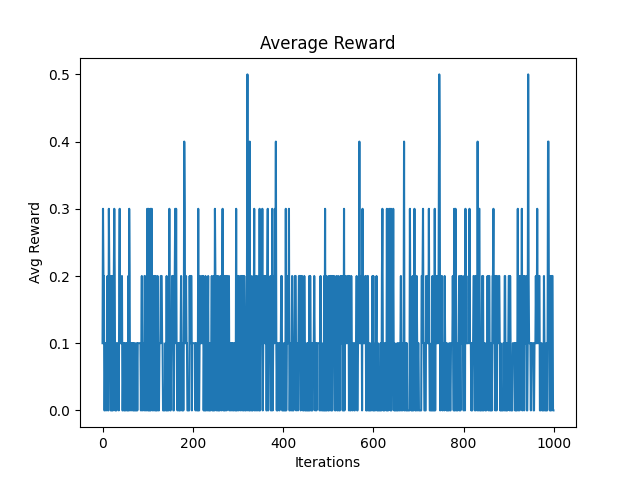
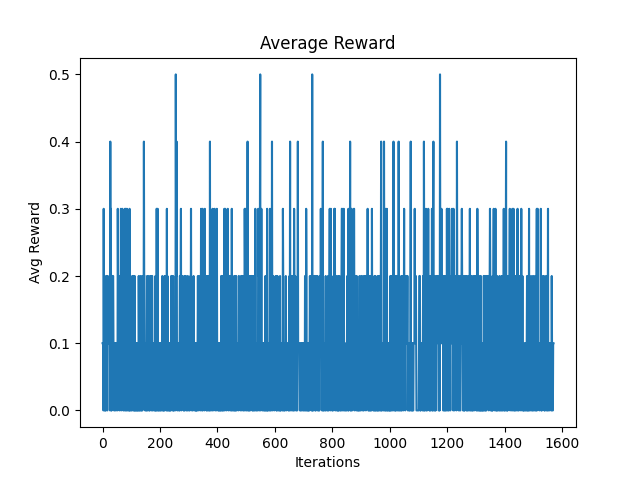
done

diff --git a/markov_decision_process/frozenlake_vi.py b/markov_decision_process/frozenlake_vi.py
@@ -13,7 +13,7 @@ def discount_experiment(env,dir):
     for gamma_val in gamma_vals:
         metrics[gamma_val] = {'reward':[],'iteration':[],'time':[],'avg_reward':[], 'num_wins':[]}
         start = time.time()
-        opt_V, opt_Policy, converge_iteration, value_funcs = value_iteration(env, max_iteration = 1000, discount_factor=gamma_val)
+        opt_V, opt_Policy, converge_iteration, value_funcs = value_iteration(env, max_iteration = 10000, discount_factor=gamma_val)
         end = time.time()
         generate_plots(value_funcs,env,gamma_val,f'gamma_{gamma_val}',dir=dir)
         # get the metrics for this policy
@@ -32,7 +32,7 @@ def epsilon_experiment(env,dir):
     for epsilon_val in epsilons:
         metrics[epsilon_val] = {'reward':[],'iteration':[],'time':[],'avg_reward':[], 'num_wins':[]}
         start = time.time()
-        opt_V, opt_Policy, converge_iteration, value_funcs = value_iteration(env, max_iteration = 1000, epsilon_change=epsilon_val)
+        opt_V, opt_Policy, converge_iteration, value_funcs = value_iteration(env, max_iteration = 10000, epsilon_change=epsilon_val)
         end = time.time()
         generate_plots(value_funcs,env,0.9,f'epsilon_{epsilon_val}',dir=dir)
         # get the metrics for this policy

diff --git a/markov_decision_process/frozenlake_qlearning.py b/markov_decision_process/frozenlake_qlearning.py
@@ -167,13 +167,13 @@ if __name__ == '__main__':
     env = gym.make('FrozenLake-v1')
     env.seed(50)
 
-    # iteration_experiment(env)
+    iteration_experiment(env)
     learning_rate_experiment(env)
-    # exploration_experiment(env)
+    exploration_experiment(env)
 
     np.random.seed(10)
     env = FrozenLakeEnv(generate_random_map(20))
 
-    # iteration_experiment(env,iteration_list=[100000],size_dir='frozen_lake_large')
-    # learning_rate_experiment(env,learning_rates=[0.1,0.5,0.9],iterations=30000,size_dir='frozen_lake_large')
-    # exploration_experiment(env,iterations=30000,size_dir='frozen_lake_large')
+    iteration_experiment(env,iteration_list=[100000],size_dir='frozen_lake_large')
+    learning_rate_experiment(env,learning_rates=[0.1,0.5,0.9],iterations=30000,size_dir='frozen_lake_large')
+    exploration_experiment(env,iterations=30000,size_dir='frozen_lake_large')
